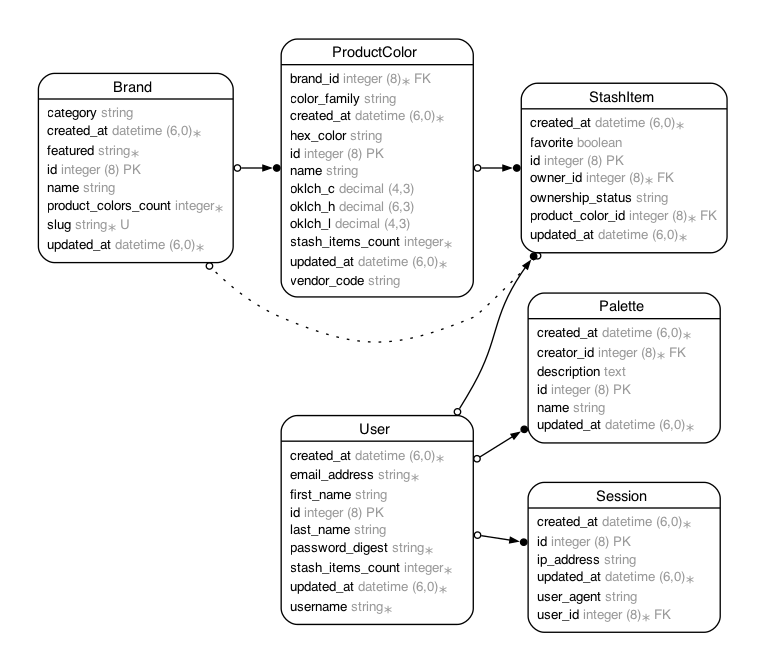
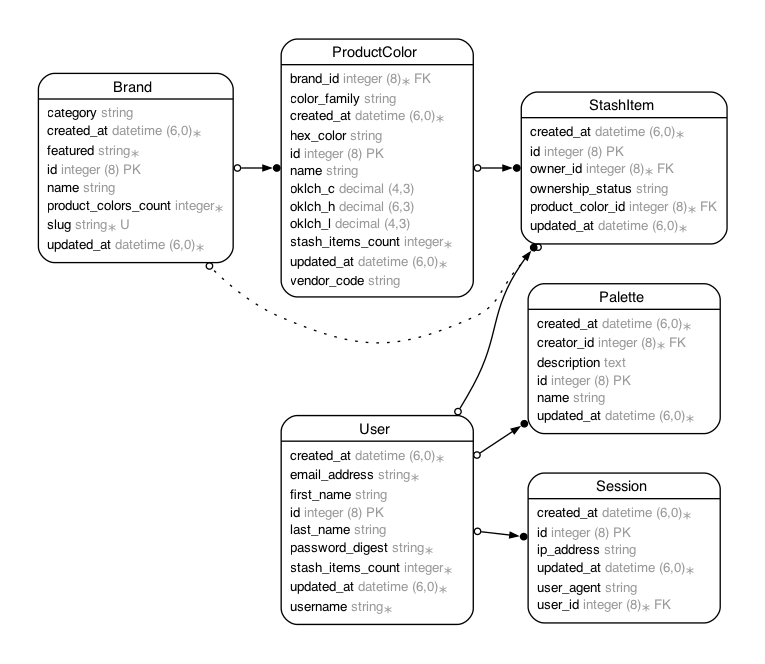
remove favorite column from stash_item and update seed_data rake

diff --git a/db/cable_schema.rb b/db/cable_schema.rb
@@ -10,7 +10,7 @@
 #
 # It's strongly recommended that you check this file into your version control system.
 
-ActiveRecord::Schema[8.0].define(version: 2025_12_03_010052) do
+ActiveRecord::Schema[8.0].define(version: 2025_12_05_230312) do
   # These are extensions that must be enabled in order to support this database
   enable_extension "pg_catalog.plpgsql"
 
@@ -210,9 +210,7 @@ ActiveRecord::Schema[8.0].define(version: 2025_12_03_010052) do
     t.bigint "product_color_id", null: false
     t.datetime "created_at", null: false
     t.datetime "updated_at", null: false
-    t.boolean "favorite", default: false
     t.string "ownership_status"
-    t.index ["favorite"], name: "index_stash_items_on_favorite"
     t.index ["ownership_status"], name: "index_stash_items_on_ownership_status"
     t.index ["product_color_id"], name: "index_stash_items_on_product_color_id"
   end

diff --git a/db/cache_schema.rb b/db/cache_schema.rb
@@ -10,7 +10,7 @@
 #
 # It's strongly recommended that you check this file into your version control system.
 
-ActiveRecord::Schema[8.0].define(version: 2025_12_03_010052) do
+ActiveRecord::Schema[8.0].define(version: 2025_12_05_230312) do
   # These are extensions that must be enabled in order to support this database
   enable_extension "pg_catalog.plpgsql"
 
@@ -210,9 +210,7 @@ ActiveRecord::Schema[8.0].define(version: 2025_12_03_010052) do
     t.bigint "product_color_id", null: false
     t.datetime "created_at", null: false
     t.datetime "updated_at", null: false
-    t.boolean "favorite", default: false
     t.string "ownership_status"
-    t.index ["favorite"], name: "index_stash_items_on_favorite"
     t.index ["ownership_status"], name: "index_stash_items_on_ownership_status"
     t.index ["product_color_id"], name: "index_stash_items_on_product_color_id"
   end

diff --git a/db/queue_schema.rb b/db/queue_schema.rb
@@ -10,7 +10,7 @@
 #
 # It's strongly recommended that you check this file into your version control system.
 
-ActiveRecord::Schema[8.0].define(version: 2025_12_03_010052) do
+ActiveRecord::Schema[8.0].define(version: 2025_12_05_230312) do
   # These are extensions that must be enabled in order to support this database
   enable_extension "pg_catalog.plpgsql"
 
@@ -210,9 +210,7 @@ ActiveRecord::Schema[8.0].define(version: 2025_12_03_010052) do
     t.bigint "product_color_id", null: false
     t.datetime "created_at", null: false
     t.datetime "updated_at", null: false
-    t.boolean "favorite", default: false
     t.string "ownership_status"
-    t.index ["favorite"], name: "index_stash_items_on_favorite"
     t.index ["ownership_status"], name: "index_stash_items_on_ownership_status"
     t.index ["product_color_id"], name: "index_stash_items_on_product_color_id"
   end

diff --git a/db/schema.rb b/db/schema.rb
@@ -10,7 +10,7 @@
 #
 # It's strongly recommended that you check this file into your version control system.
 
-ActiveRecord::Schema[8.0].define(version: 2025_12_03_010052) do
+ActiveRecord::Schema[8.0].define(version: 2025_12_05_230312) do
   # These are extensions that must be enabled in order to support this database
   enable_extension "pg_catalog.plpgsql"
 
@@ -210,9 +210,7 @@ ActiveRecord::Schema[8.0].define(version: 2025_12_03_010052) do
     t.bigint "product_color_id", null: false
     t.datetime "created_at", null: false
     t.datetime "updated_at", null: false
-    t.boolean "favorite", default: false
     t.string "ownership_status"
-    t.index ["favorite"], name: "index_stash_items_on_favorite"
     t.index ["ownership_status"], name: "index_stash_items_on_ownership_status"
     t.index ["product_color_id"], name: "index_stash_items_on_product_color_id"
   end

diff --git a/app/models/stash_item.rb b/app/models/stash_item.rb
@@ -3,7 +3,6 @@
 # Table name: stash_items
 #
 #  id               :bigint           not null, primary key
-#  favorite         :boolean          default(FALSE)
 #  ownership_status :string
 #  created_at       :datetime         not null
 #  updated_at       :datetime         not null
@@ -12,7 +11,6 @@
 #
 # Indexes
 #
-#  index_stash_items_on_favorite          (favorite)
 #  index_stash_items_on_ownership_status  (ownership_status)
 #  index_stash_items_on_product_color_id  (product_color_id)
 #

diff --git a/db/migrate/20251205230312_remove_favorite_from_stash_items.rb b/db/migrate/20251205230312_remove_favorite_from_stash_items.rb
@@ -1,0 +1,5 @@
+class RemoveFavoriteFromStashItems < ActiveRecord::Migration[8.0]
+  def change
+    remove_column :stash_items, :favorite, :boolean
+  end
+end
